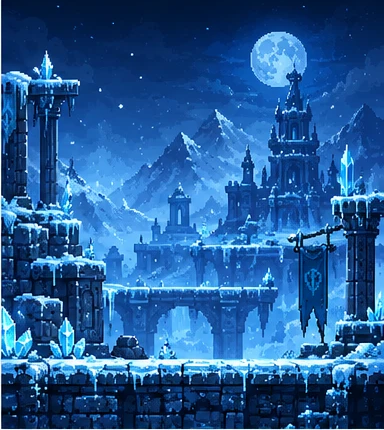
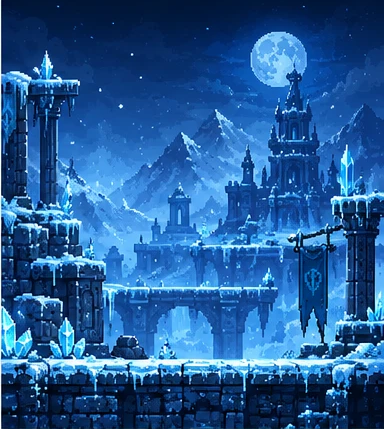
Fix stray white line at the bottom of the Guardian arena background
temple.png (and dungeon/ice/jungle.png, same pipeline) had a single
near-white pixel row baked into their very bottom edge — an artifact
from an earlier export/crop step. Stretched across the full view, it
showed as a thin white seam wherever the floor tiles didn't fully
cover the background, most visibly at the far right of the Guardian's
arena. Cropped the stray row from all four affected backgrounds.

Also clear the draw buffer at the top of render(), before the screen
shake offset is applied — drawBackground() draws a full-buffer image
pinned to the (now-translated) origin, so during a shaken frame it
misses a sliver at one edge; without a clear that sliver showed the
previous frame's stale pixels instead of blank space.

Claude-Session: https://claude.ai/code/session_0176vffEq4HkUde7n29kVuyD

diff --git a/game.js b/game.js
@@ -5327,6 +5327,12 @@
 
   function render() {
     ctx.save();
+    // Clear before the shake offset below shifts drawBackground() off the
+    // buffer's true edges — otherwise the sliver it misses each shaken
+    // frame shows last frame's stale pixels instead of blank space, which
+    // reads as a stray white streak during the Guardian's dash/slam (and
+    // any other attack that calls shakeScreen).
+    ctx.clearRect(0, 0, VIEW_W, VIEW_H);
     if (shake.t > 0) {
       const m = shake.mag * (shake.t / 0.25);
       ctx.translate((Math.random() - 0.5) * m, (Math.random() - 0.5) * m);
